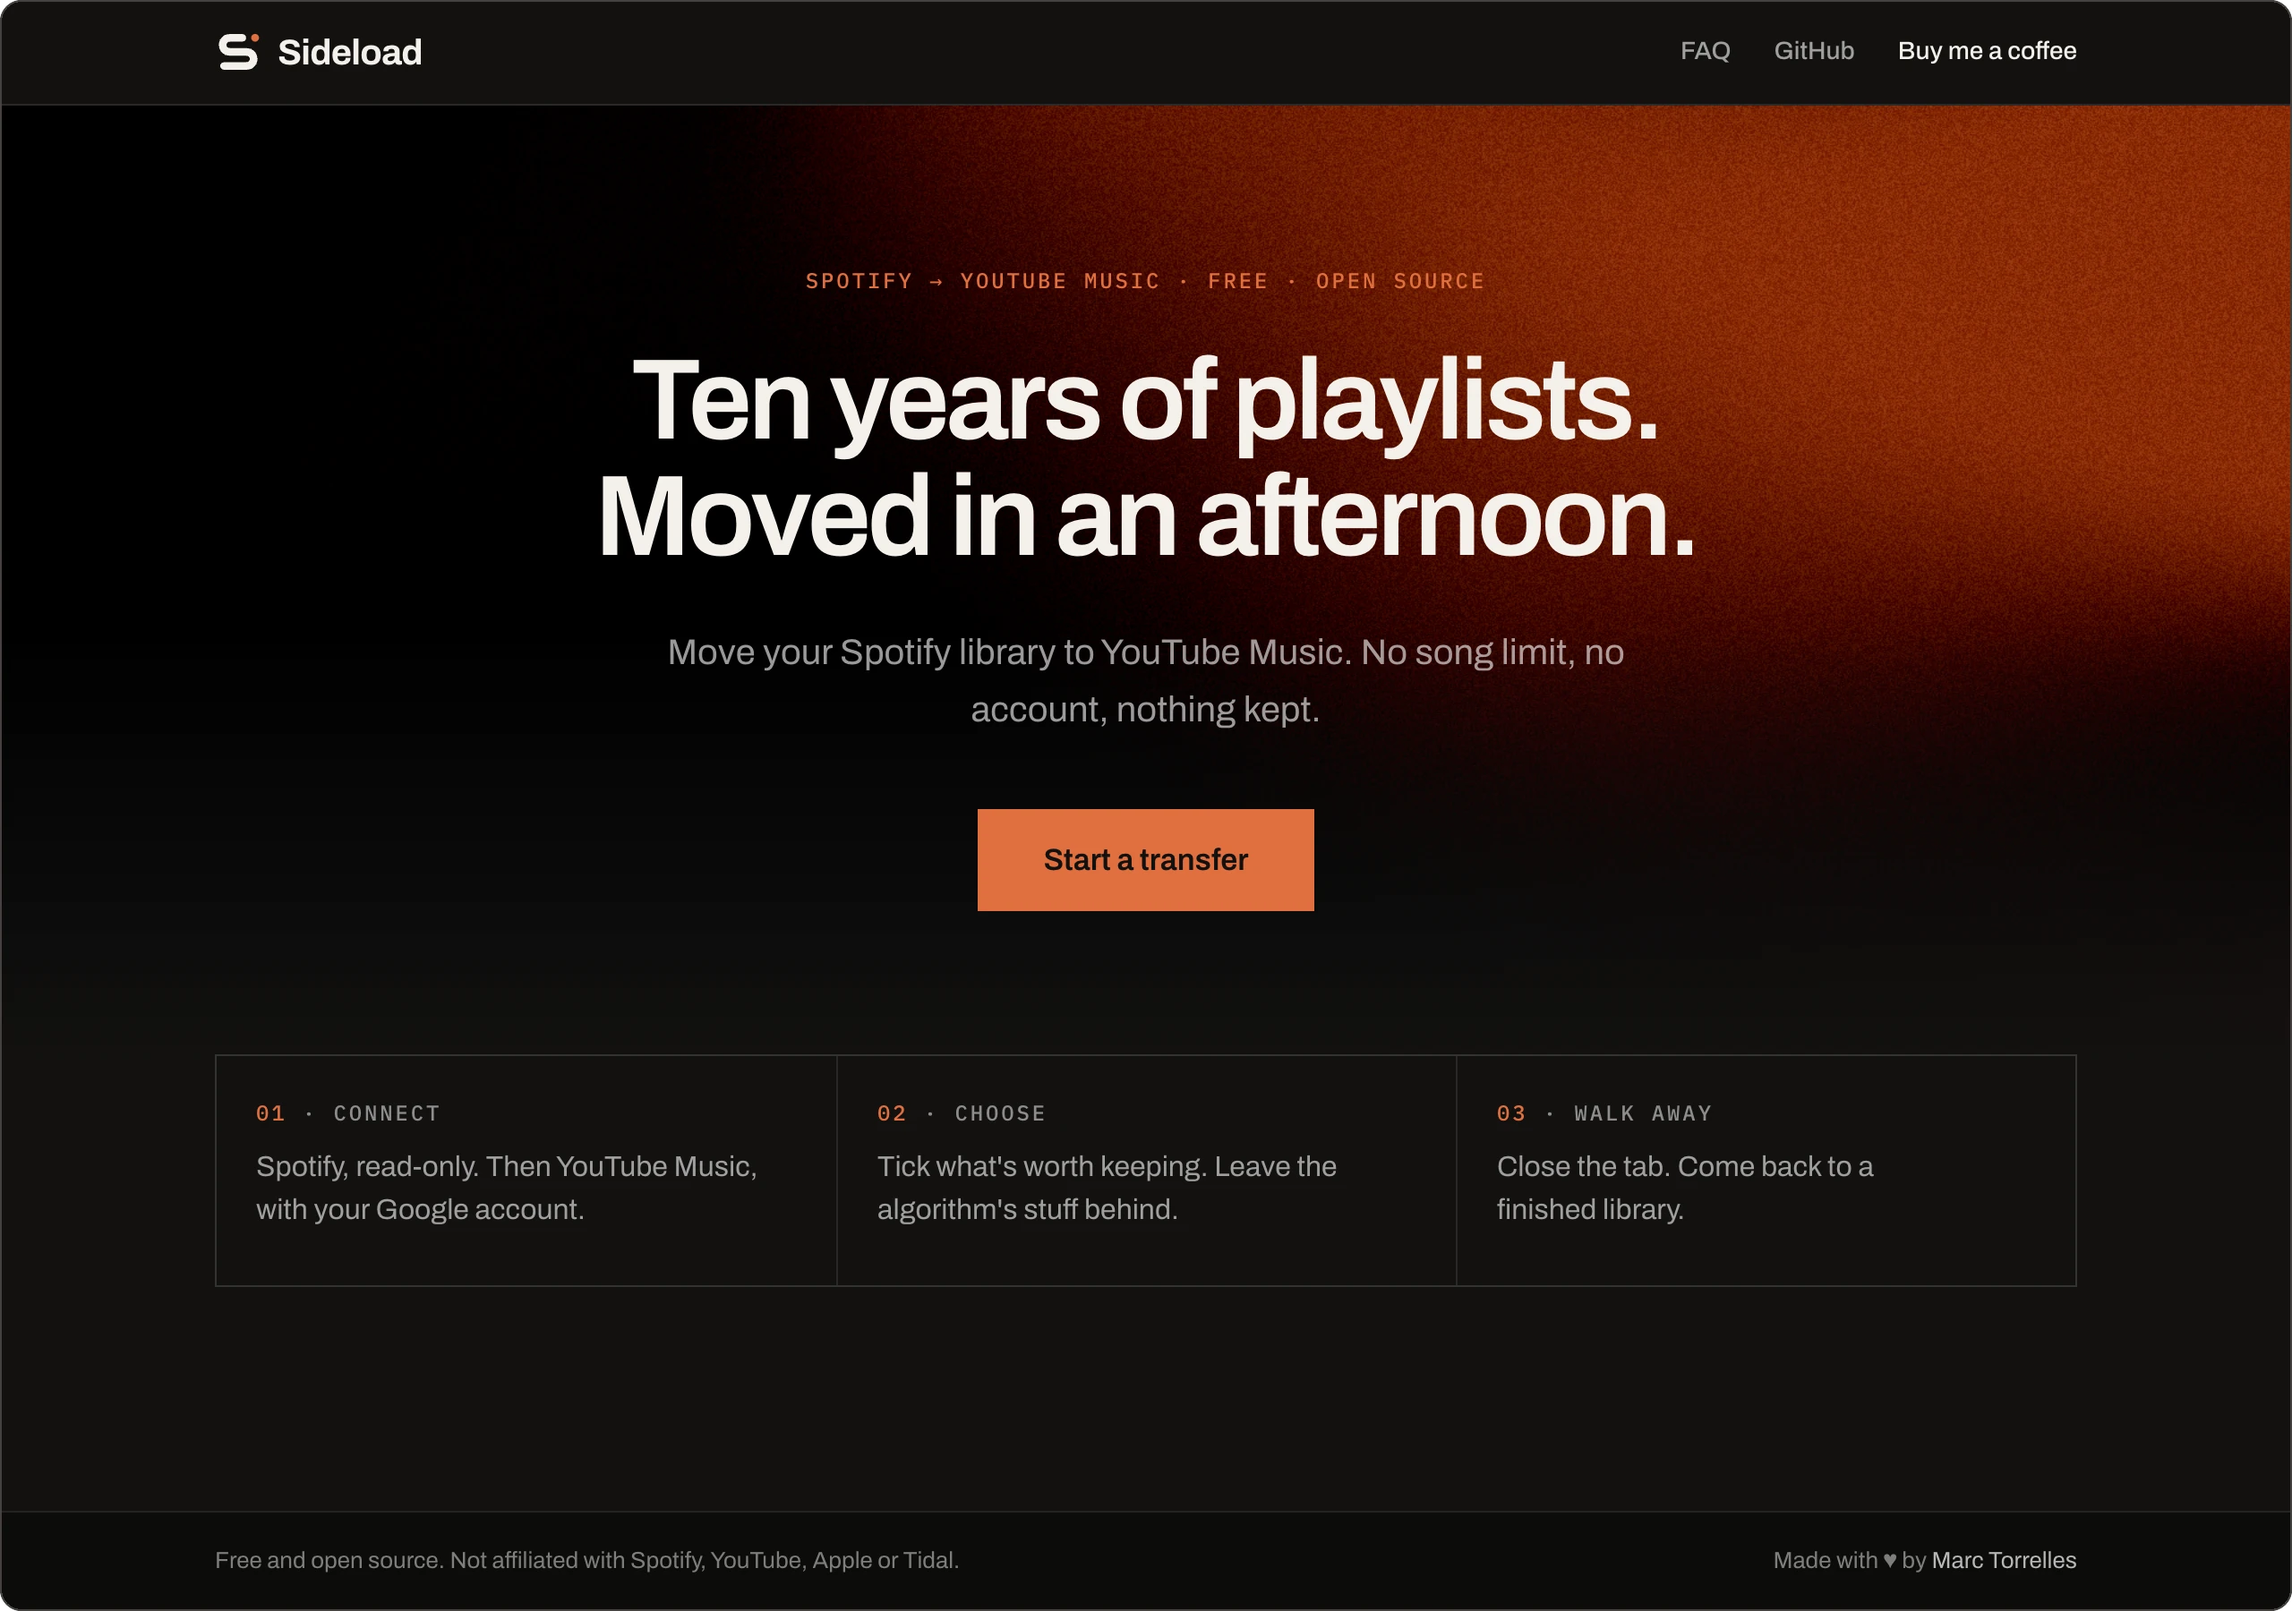
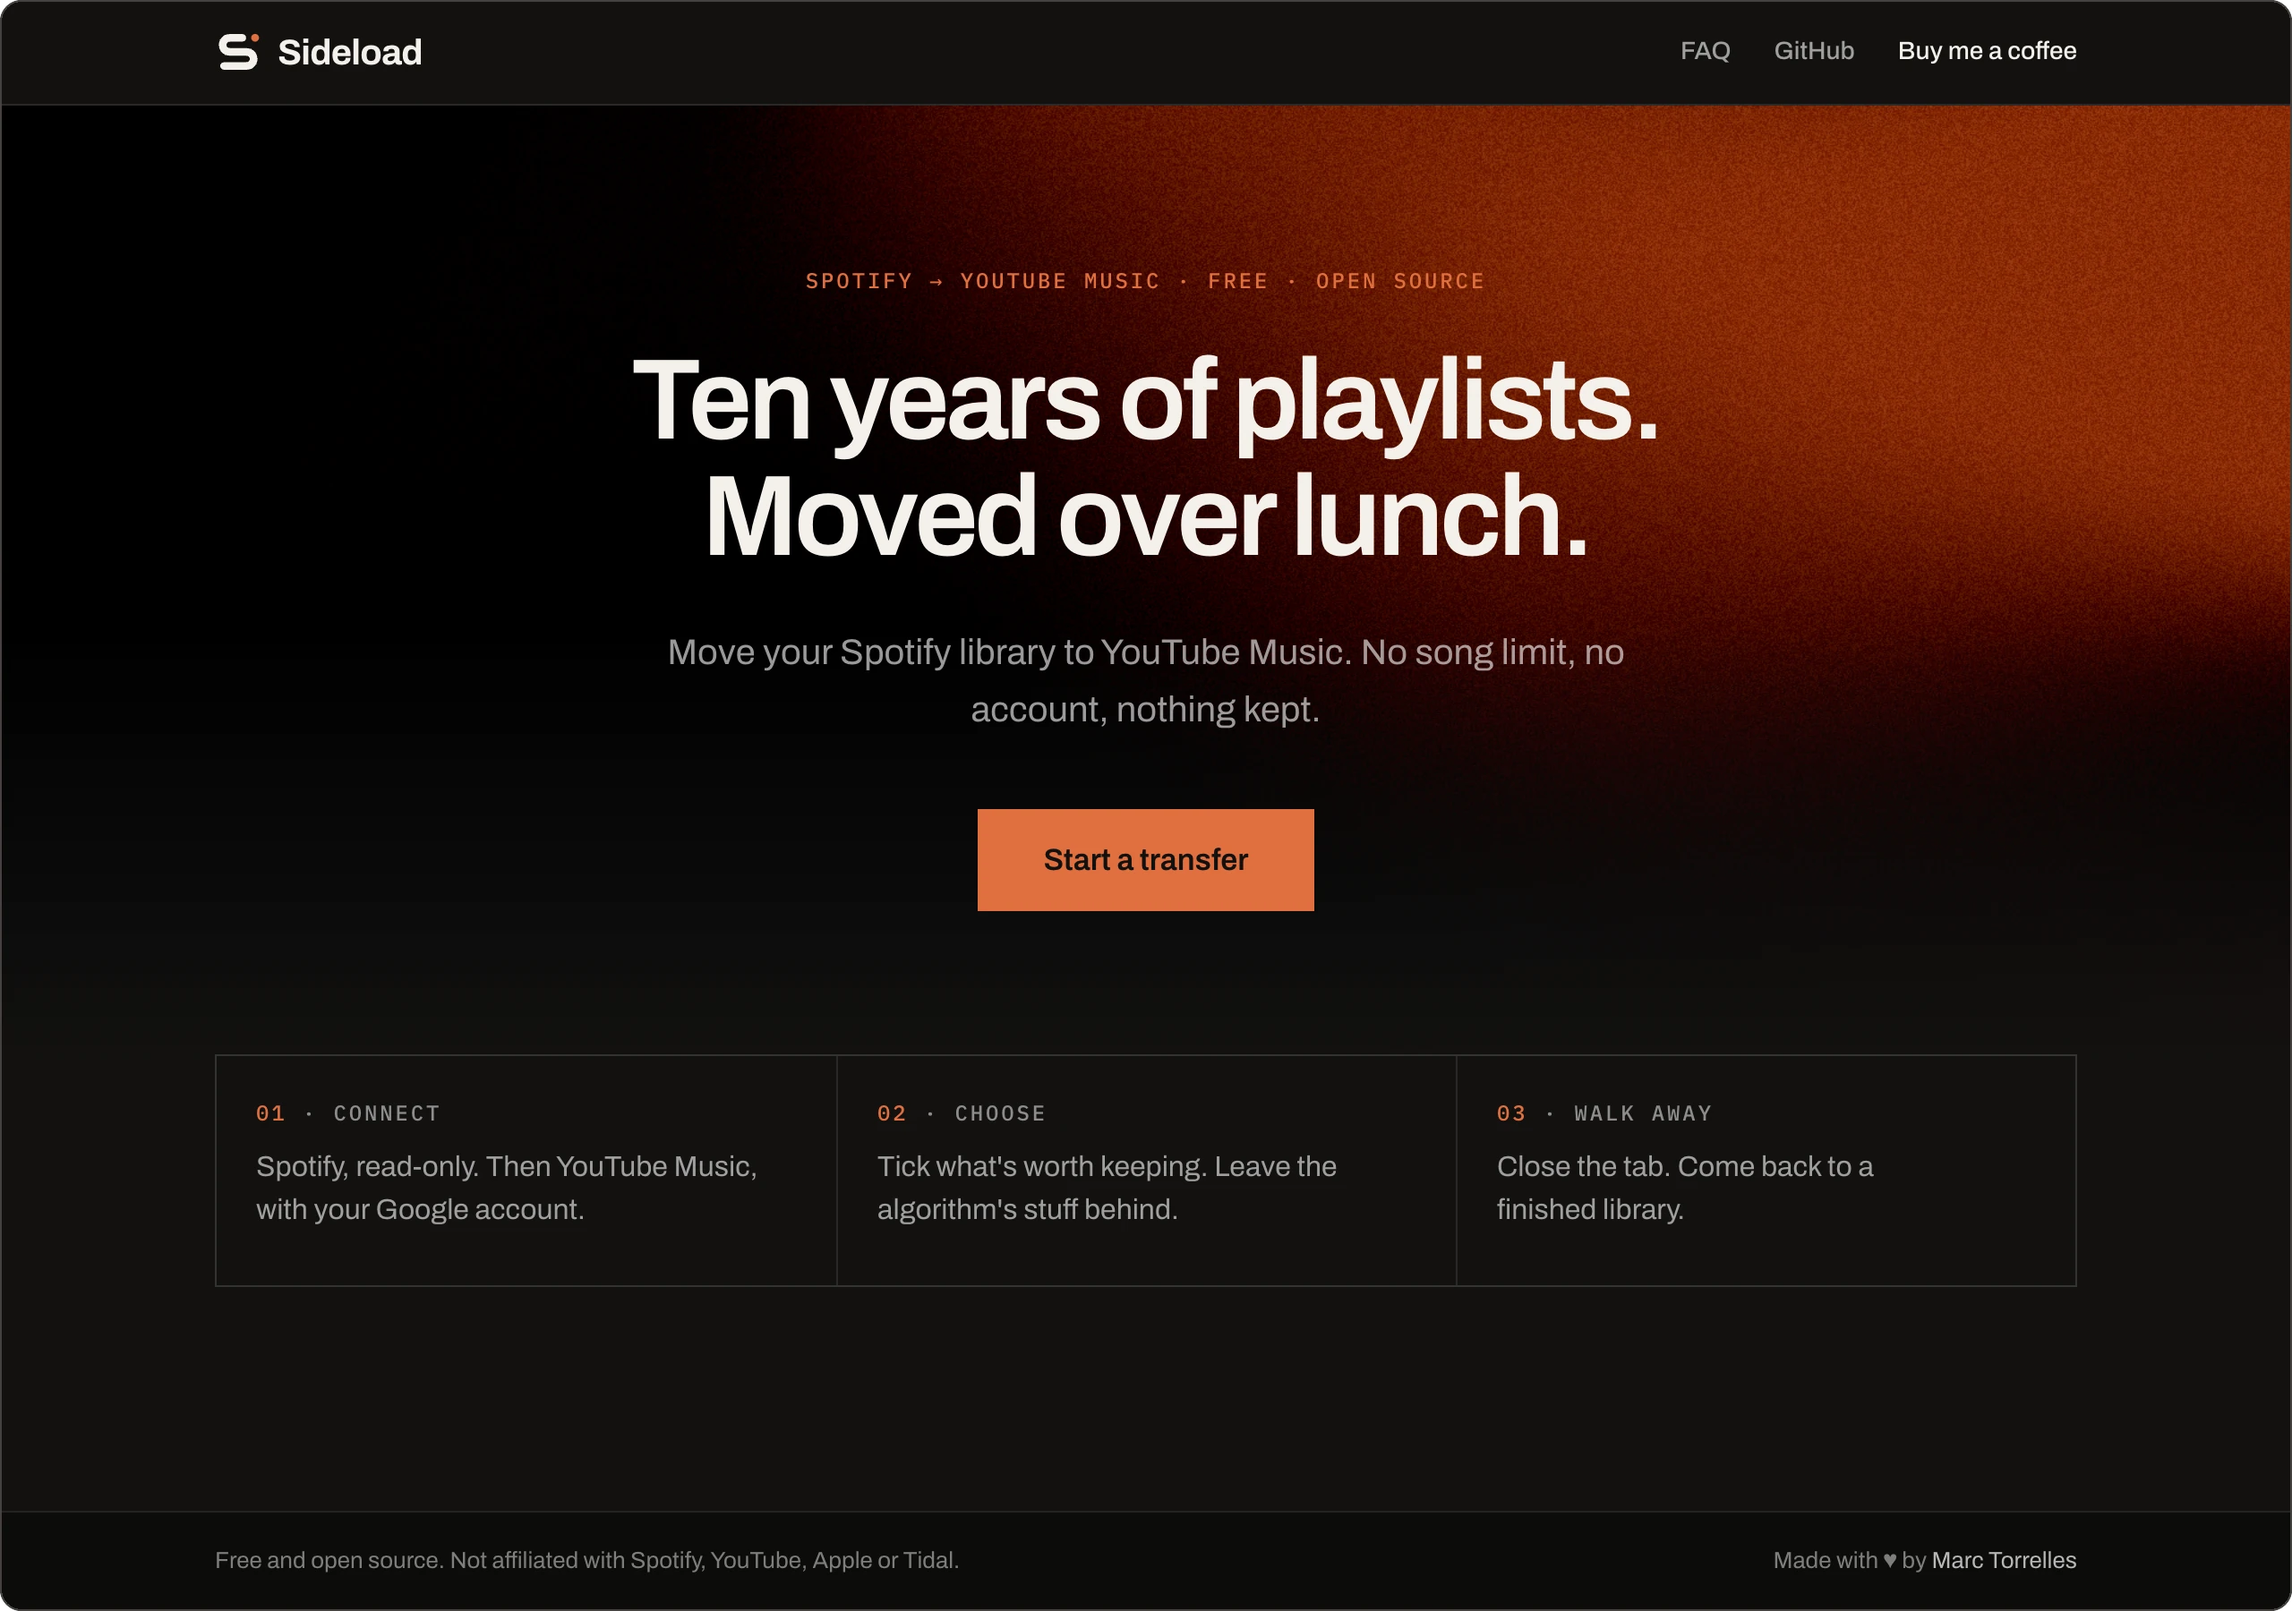
feat(web): headline promises lunch, not an afternoon
A 3,000-song library moves in about an hour, so the old line undersold
it. Same change on the OG card and the README landing shot.

Changed region(s): [[0.25, 0.28, 0.75, 0.3422]]

diff --git a/web/scripts/og.html b/web/scripts/og.html
@@ -12,7 +12,7 @@ h1{font:600 92px/1.02 Archivo;letter-spacing:-.038em;margin:0}
 .u{font:500 19px/1 Plex,monospace;color:rgba(255,255,255,.52);letter-spacing:.06em}
 </style><div class="c"><canvas id="bg" width="1200" height="630"></canvas><div class="fade"></div>
 <div class="w t"><svg viewBox="7.5 6.5 33 33"><path d="M27 13 H18 a5 5 0 0 0 0 10 H30 a5 5 0 0 1 0 10 H14" fill="none" stroke="#f4f1eb" stroke-width="5.5" stroke-linecap="round"/><circle cx="36" cy="13" r="2.75" fill="#e0703f"/></svg>Sideload</div>
-<div class="t"><div class="e">Spotify → YouTube Music · free · open source</div><h1>Ten years of playlists.<br>Moved in an afternoon.</h1></div>
+<div class="t"><div class="e">Spotify → YouTube Music · free · open source</div><h1>Ten years of playlists.<br>Moved over lunch.</h1></div>
 <div class="u t">sideload.marctorrelles.com · no account · nothing kept</div></div>
 <script>
 const VERT = `#version 300 es

diff --git a/README.md b/README.md
@@ -1,4 +1,4 @@
-<img src=".github/readme/landing.webp" alt="Sideload: ten years of playlists, one afternoon saved" width="100%">
+<img src=".github/readme/landing.webp" alt="Sideload: ten years of playlists, moved over lunch" width="100%">
 
 # Sideload
 
